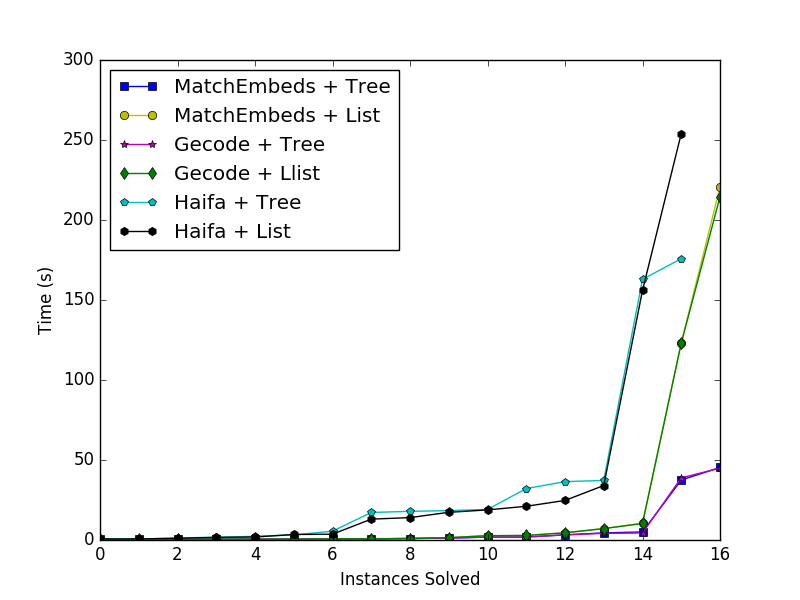
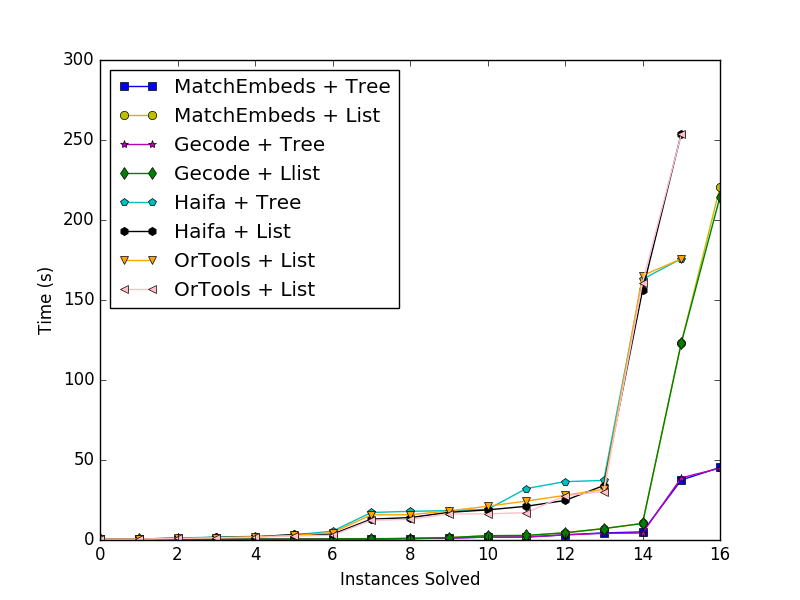
Forgot to update threader plot with ortools

diff --git a/test_tree/results/threader_plot.py b/test_tree/results/threader_plot.py
@@ -38,6 +38,8 @@ cactus_plot(data[3], '-m*', label='Gecode + Tree')
 cactus_plot(data[4], '-gd', label='Gecode + Llist')
 cactus_plot(data[5], '-cp', label='Haifa + Tree')
 cactus_plot(data[6], '-kh', label='Haifa + List')
+cactus_plot(data[7], '-v', color="orange", label='OrTools + List')
+cactus_plot(data[8], '-<', color="pink", label='OrTools + List')
 # s - square, v ^ < > - triangles, o - circe, p - pentagon, * - star, h H - hexagon, x - x, d D - diamond
 
 plt.xlabel('Instances Solved')
